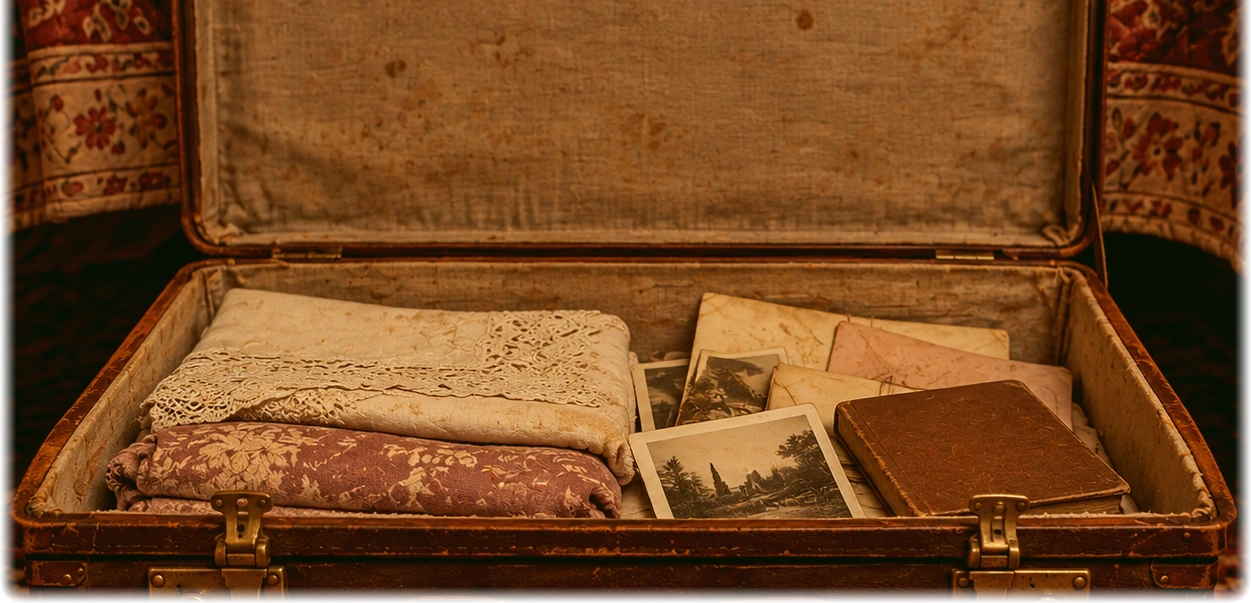
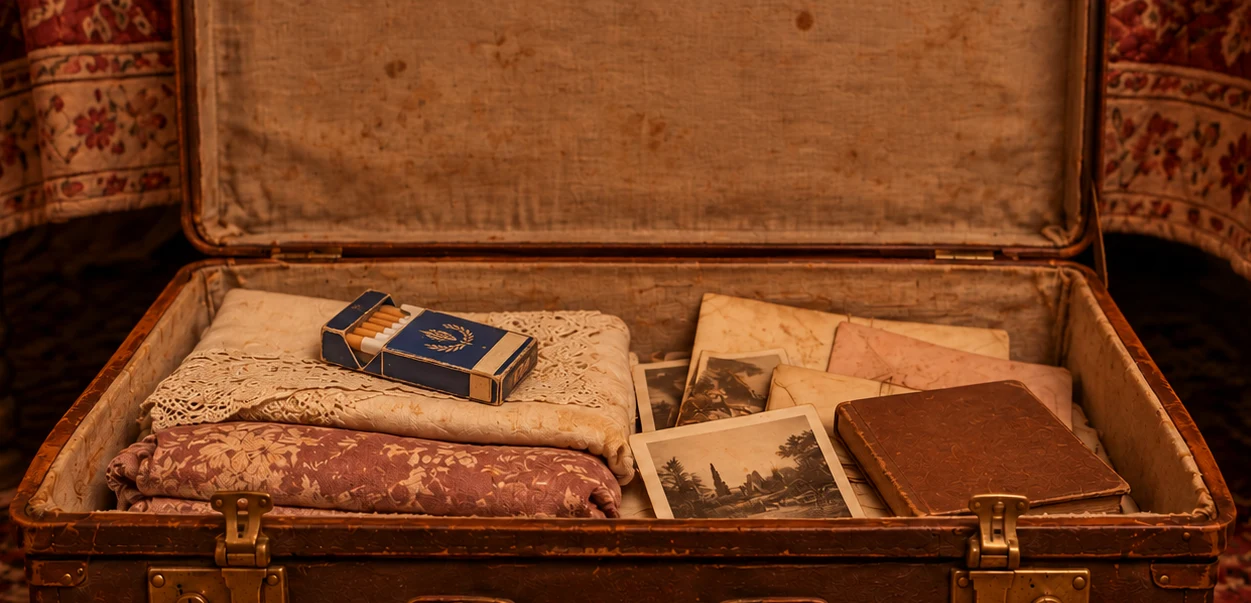
Zutaten liegen sichtbar in den Raeumen

diff --git a/quest-ostern.html b/quest-ostern.html
@@ -365,7 +365,7 @@
 
   // Wird bei jedem Paket neu gesetzt. Steht unten im Startbildschirm, damit man
   // sofort sieht, welche Fassung gerade live ist.
-  const BAUSTAND = '28.10.2026 15:18';
+  const BAUSTAND = '28.10.2026 16:45';
   const SPEICHER_KEY = 'ostern_fortschritt';
   const HINWEISE_GESAMT = 3;
   // Gemeinsamer Faktor für alle Eier. Die Radien in EIER bleiben, hier wird
@@ -487,6 +487,7 @@
   const GEGENSTAENDE = [
     { id: 'gemaelde',   symbol: '🖼', name: 'Bild',      nah: 'bild_vorn', text: 'Ein Landschaftsbild in einem alten Holzrahmen.' },
     { id: 'schluessel', symbol: '🗝', name: 'Schlüssel', text: 'Ein alter Messingschlüssel. Wozu er passt, weiss ich noch nicht.' },
+    { id: 'kippen_rot', symbol: '🚬', name: 'Rote Schachtel', text: 'Eine rote Schachtel aus der Holzkiste. Nicht ihre Marke.' },
     { id: 'kippen',     symbol: '🚬', name: 'Schachtel', text: 'Eine angebrochene Schachtel Zigaretten.' },
     // Die Taschenlampe nimmt die Batterien entgegen und wird danach zum Schalter.
     { id: 'lampe',      symbol: '🔦', name: 'Lampe',     text: 'Eine Taschenlampe. Ohne Batterien nutzlos.',
@@ -638,8 +639,7 @@
     // --- Holzkiste von nahem ---
     { id: 'tk_tuecher', ansicht: 'th_kiste_nah', x: 550, y: 315, w: 840, h: 465, typ: 'ausschnitt', zustand: 'th_tuecher_weg',
       klang: 'stoff', label: 'Tücher' },
-    { id: 'tk_kippen', ansicht: 'th_kiste_nah', x: 935, y: 625, w: 180, h: 115, typ: 'nehmen', zustand: 'kippen_weg',
-      gibt: 'kippen', sichtbarWenn: 'th_tuecher_weg', bildAus: 'ostern/bilder/th-kiste-ohne-kippen.webp', label: 'Zigarettenschachtel' },
+    { id: 'tk_kippen', ansicht: 'th_kiste_nah', x: 935, y: 625, w: 180, h: 115, typ: 'nehmen', zustand: 'kippen_rot_weg', gibt: 'kippen_rot', sichtbarWenn: 'th_tuecher_weg', bildAus: 'ostern/bilder/th-kiste-ohne-kippen.webp', label: 'Rote Zigarettenschachtel'},
     // --- Wohnzimmer (Koordinaten im Bild 1774 x 887) ---
     // Ist der Hammer genommen, wird das ganze Raumbild getauscht statt nur ein
     // Stück davon. Das Bild ohne Hammer ist neu gerendert und weicht überall
@@ -701,6 +701,8 @@
     { id: 'w_frau', ansicht: 'wohnzimmer', x: 240, y: 95, w: 430, h: 330, typ: 'phasen', zustand: 'frau_phase',
       treffer: { x: 240, y: 192, w: 460, h: 250 },
       nichtWenn: 'anfisa_weg', label: 'Die Frau im Sessel', sprecher: 'Anfisa',
+      // Die rote Schachtel aus der Holzkiste ist nicht ihre Marke
+      lehntAb: { kippen_rot: '„Rote? Pha. Das rauche jch nicht. Meine sind blau."' },
       // Solange der Fernseher aus ist, sitzt sie auf. Weiterklicken darf sie
       // dann nicht in die schlafende Phase 0 zurückfallen lassen.
       mindestPhase: { wenn: ['tv_aus', 'anfisa_kippen', 'anfisa_feuer'], phase: 1 },
@@ -838,22 +840,27 @@
     { id: 'sb_schrank', ansicht: 'schreibtisch_nah', x: 10, y: 585, w: 470, h: 302, typ: 'ausschnitt', klang: 'schranktuer', zustand: 'sb_schrank_offen', label: 'Schrank unter der Tischplatte' },
     { id: 'sb_schublade', ansicht: 'schreibtisch_nah', x: 1240, y: 572, w: 490, h: 275, typ: 'ausschnitt', klang: 'schublade', zustand: 'sb_schublade_offen', label: 'Schublade' },
     // ---- Backzutaten. nurGruppe entscheidet, wer sie sieht. ----
-    { id: 'z_hefe', ansicht: 'koffer_nah', x: 1200, y: 285, w: 110, h: 95, typ: 'nehmen', zustand: 'hefe_weg',
-      gibt: 'hefe', nurGruppe: 'A', sichtbarWenn: 'koffer_offen', label: 'Päckchen im Koffer' },
+    { id: 'z_hefe', ansicht: 'koffer_nah', x: 654, y: 314, w: 92, h: 63, typ: 'nehmen', zustand: 'hefe_weg',
+      gibt: 'hefe', nurGruppe: 'A', sichtbarWenn: 'koffer_offen', label: 'Päckchen im Koffer',
+      ohneMarke: true, zeichnung: liegt('leg-hefe.webp', 654, 314, 92, 63, 'hefe_weg')},
         // Die Butter liegt im zweiten Fach. Nach dem Nehmen wird das ganze Bild
     // getauscht, damit keine Kante zu sehen ist.
     { id: 'kuehl_ohne_butter', ansicht: 'kuehl_nah', x: 0, y: 0, w: 1774, h: 887, typ: 'overlay', zustand: 'butter_weg',
       bildAus: 'ostern/bilder/kuehl-ohne-butter.webp', label: 'Kühlschrank' },
     { id: 'z_butter', ansicht: 'kuehl_nah', x: 530, y: 326, w: 216, h: 86, typ: 'nehmen', zustand: 'butter_weg',
       gibt: 'butter', nurGruppe: 'A', ohneMarke: true, label: 'Butter auf dem Papier' },
-    { id: 'z_safran', ansicht: 'schlafzimmer', x: 855, y: 445, w: 100, h: 80, typ: 'nehmen', zustand: 'safran_weg',
-      gibt: 'safran', nurGruppe: 'A', sichtbarWenn: 'sz_nachttisch_offen', label: 'Döschen in der Schublade' },
-    { id: 'z_mehl', ansicht: 'kue_ober_nah', x: 640, y: 690, w: 150, h: 170, typ: 'nehmen', zustand: 'mehl_weg',
-      gibt: 'mehl', nurGruppe: 'B', label: 'Mehltüte im Schrank' },
-    { id: 'z_kardamom', ansicht: 'schlafzimmer', x: 1400, y: 555, w: 100, h: 80, typ: 'nehmen', zustand: 'kardamom_weg',
-      gibt: 'kardamom', nurGruppe: 'B', sichtbarWenn: 'sz_frisier_offen', label: 'Kapseln in der Schublade' },
-    { id: 'z_rosinen', ansicht: 'dachboden', x: 1330, y: 700, w: 110, h: 90, typ: 'nehmen', zustand: 'rosinen_weg',
-      gibt: 'rosinen', nurGruppe: 'B', sichtbarWenn: 'dach_truhe_offen', label: 'Beutel in der Truhe' },
+    { id: 'z_safran', ansicht: 'schlafzimmer', x: 883, y: 479, w: 58, h: 43, typ: 'nehmen', zustand: 'safran_weg',
+      gibt: 'safran', nurGruppe: 'A', sichtbarWenn: 'sz_nachttisch_offen', label: 'Döschen in der Schublade',
+      ohneMarke: true, zeichnung: liegt('leg-safran.webp', 883, 479, 58, 43, 'safran_weg')},
+    { id: 'z_mehl', ansicht: 'kue_ober_nah', x: 700, y: 687, w: 120, h: 166, typ: 'nehmen', zustand: 'mehl_weg',
+      gibt: 'mehl', nurGruppe: 'B', label: 'Mehltüte im Schrank',
+      ohneMarke: true, zeichnung: liegt('leg-mehl.webp', 700, 687, 120, 166, 'mehl_weg')},
+    { id: 'z_kardamom', ansicht: 'schlafzimmer', x: 1403, y: 585, w: 58, h: 34, typ: 'nehmen', zustand: 'kardamom_weg',
+      gibt: 'kardamom', nurGruppe: 'B', sichtbarWenn: 'sz_frisier_offen', label: 'Kapseln in der Schublade',
+      ohneMarke: true, zeichnung: liegt('leg-kardamom.webp', 1403, 585, 58, 34, 'kardamom_weg')},
+    { id: 'z_rosinen', ansicht: 'dachboden', x: 1342, y: 721, w: 96, h: 54, typ: 'nehmen', zustand: 'rosinen_weg',
+      gibt: 'rosinen', nurGruppe: 'B', sichtbarWenn: 'dach_truhe_offen', label: 'Beutel in der Truhe',
+      ohneMarke: true, zeichnung: liegt('leg-rosinen.webp', 1342, 721, 96, 54, 'rosinen_weg')},
 
     // --- Acis Schreibtisch auf dem Bildschirm ---
     // Die Leiste gehört zum Bild, nicht zum Spiel: overlay fängt keine Klicks.
@@ -1156,6 +1163,11 @@
     // --- Koffer von nahem. Die Schlösser gehen nur mit dem Schlüssel aus dem Bild. ---
     { id: 'kf_offen', ansicht: 'koffer_nah', x: 260, y: 0, w: 1235, h: 595, typ: 'overlay', zustand: 'koffer_offen',
       patch: 'ostern/bilder/koffer-offen.webp', patchX: 252, patchY: 0, patchW: 1251, patchH: 603, label: 'Koffer' },
+    // Die Schachtel liegt bei ihren alten Sachen. Damit muss man erst das Bild
+    // abhängen, den Schlüssel holen und den Koffer aufschliessen, bevor man
+    // Anfisa loswerden kann — und war dafür in ihrem Zimmer.
+    { id: 'kf_kippen', ansicht: 'koffer_nah', x: 925, y: 385, w: 110, h: 95, typ: 'nehmen', zustand: 'kippen_weg',
+      gibt: 'kippen', sichtbarWenn: 'koffer_offen', label: 'Schachtel zwischen den Papieren' },
     { id: 'kf_schloss', ansicht: 'koffer_nah', x: 300, y: 480, w: 1180, h: 280, typ: 'ziel',
       nichtWenn: 'koffer_offen', label: 'Schlösser am Koffer',
       nimmt: 'schluessel', setzt: 'koffer_offen',
@@ -1536,6 +1548,14 @@
     ebene.insertAdjacentHTML('beforeend',
       `<rect id="pc-markierung" x="${t.x - 8}" y="${t.y - 8}" width="${t.w + 16}" height="${t.h + 16}" rx="12"`
       + ` fill="rgba(244,212,132,0.16)" stroke="#f4d484" stroke-width="3" style="pointer-events:none"/>`);
+  }
+
+  // Ein Gegenstand, der sichtbar irgendwo liegt. Verschwindet, sobald er
+  // genommen ist. x und y sind die linke obere Ecke des Bildes.
+  function liegt(datei, x, y, b, h, zustand) {
+    return `<g data-nicht="${zustand}" style="pointer-events:none">`
+      + `<image href="ostern/bilder/${datei}" xlink:href="ostern/bilder/${datei}"`
+      + ` x="${x}" y="${y}" width="${b}" height="${h}"/></g>`;
   }
 
   // Ein Symbol auf Acis Schreibtisch: Ordner oder Textdatei, mit Namen darunter.
@@ -2179,6 +2199,13 @@
   // Gewählten Gegenstand auf ein Teil anwenden.
   // `nimmt` darf eine Liste sein: dann müssen alle davon im Rucksack liegen.
   function benutze(gegenstandId, teil) {
+    // Ausdrücklich abgelehnte Gegenstände bekommen ihren eigenen Satz, statt
+    // mit „Bringt hier nichts" abgefertigt zu werden.
+    if (teil && teil.lehntAb && teil.lehntAb[gegenstandId]) {
+      waehle(null, true); klang('fehler');
+      sag(teil.lehntAb[gegenstandId], teil.sprecher);
+      return false;
+    }
     const noetig = !teil ? [] : (Array.isArray(teil.nimmt) ? teil.nimmt : [teil.nimmt]).filter(Boolean);
     if (!noetig.includes(gegenstandId)) { sag('Bringt hier nichts.'); return false; }
 
